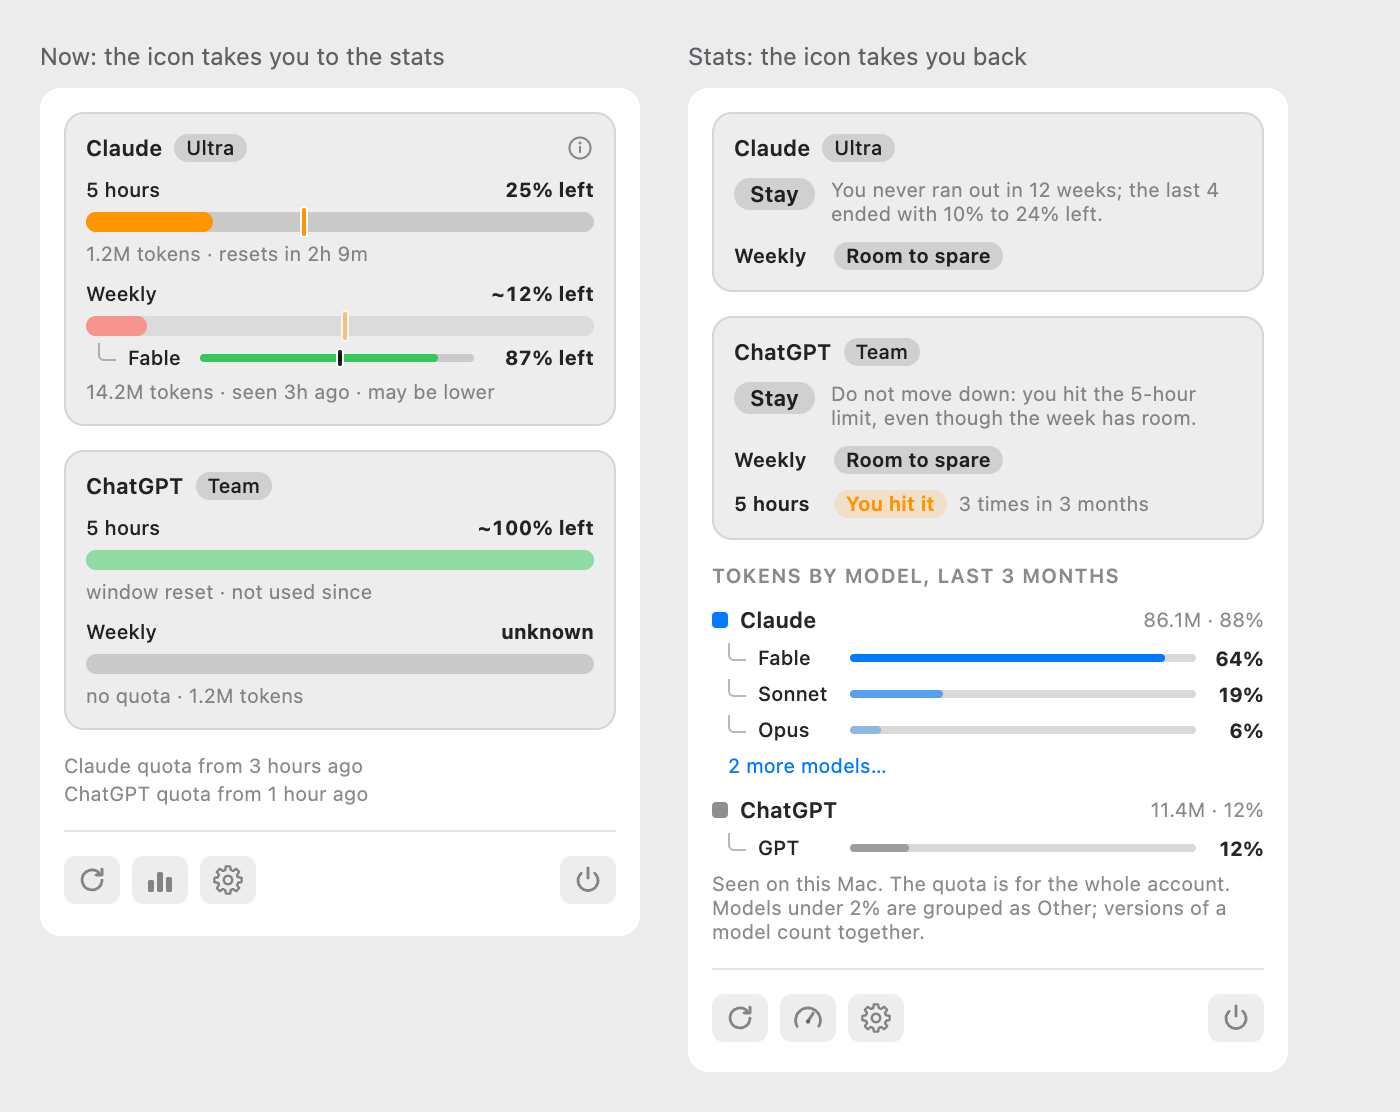
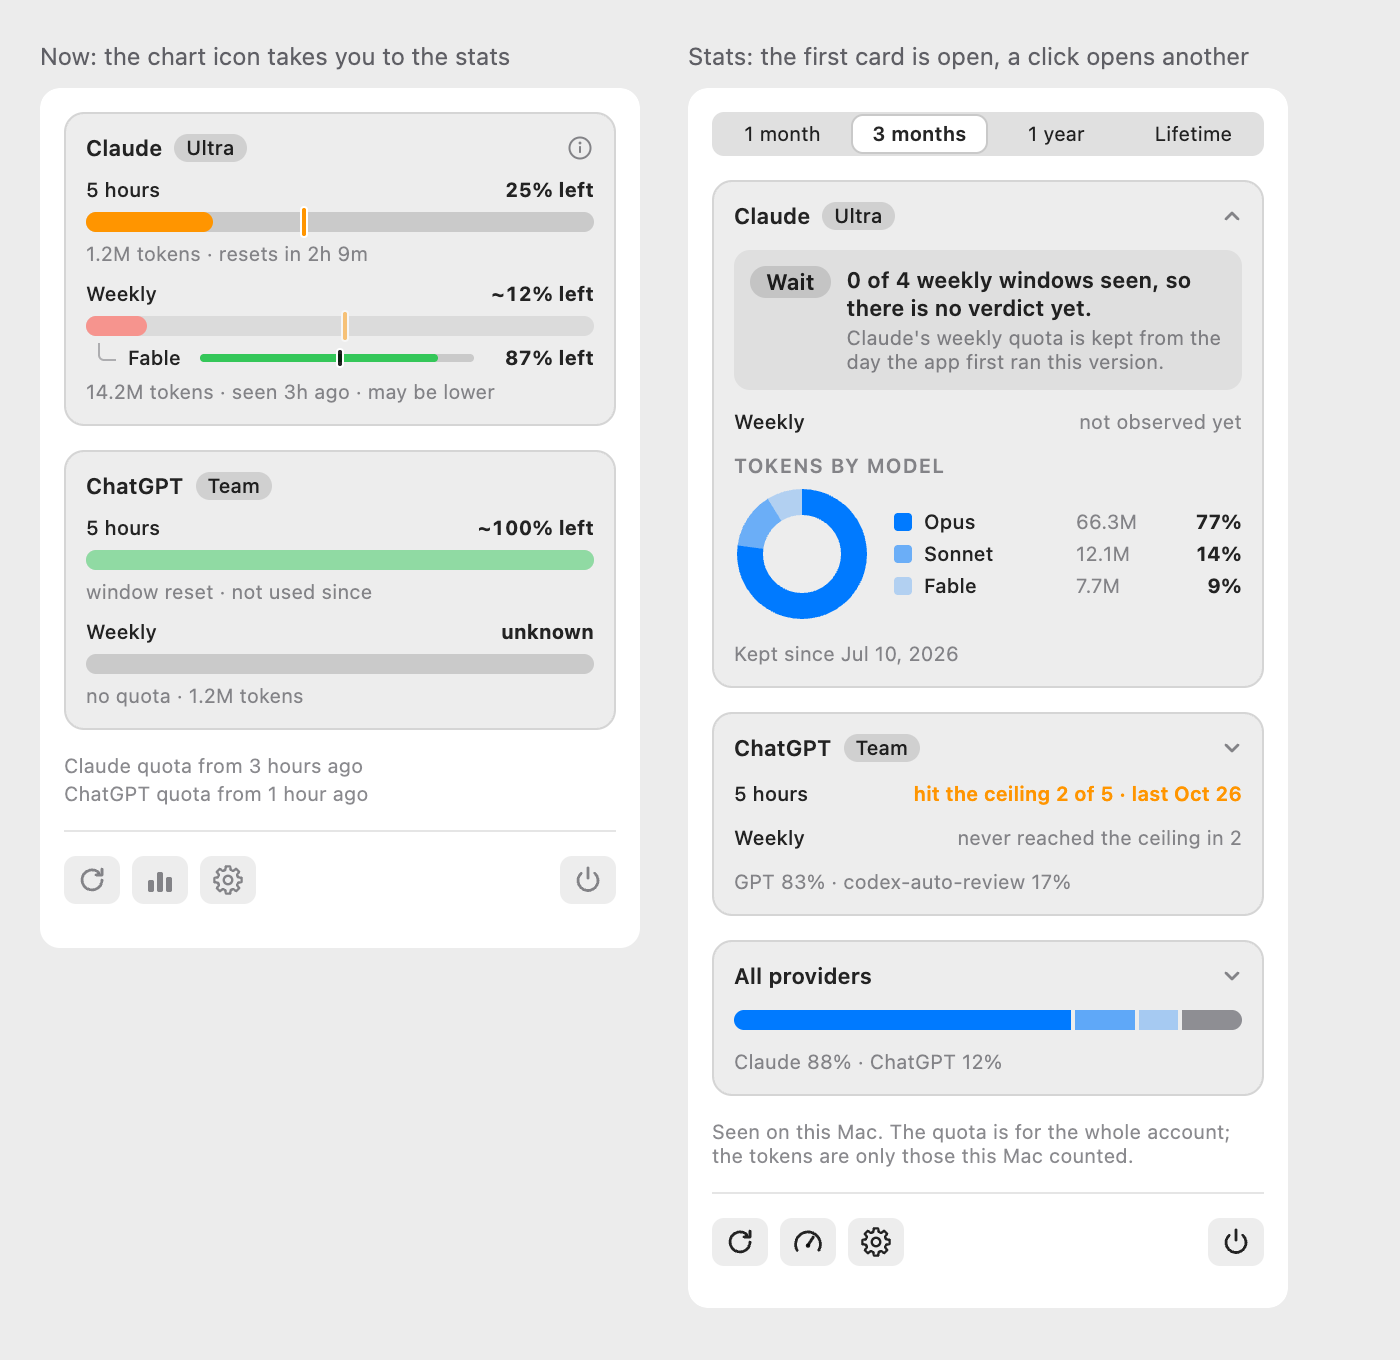
docs(features): the usage stats proposal shows the panel as built

diff --git a/docs/features/2026-11-02-usage-stats/proposal.md b/docs/features/2026-11-02-usage-stats/proposal.md
@@ -9,7 +9,7 @@ sidebar_position: 2
 The design that was chosen. It was drawn as a canvas in Claude, which is deleted once the feature is implemented; this
 page is what stays. **Every number in the images is a sample**, not real use.
 
-![The panel in its two views: on the left the current quota with an icon of bars in the row of buttons; on the right the stats view, with a card for each provider, the first three models of Claude and a gauge icon that takes back to the current quota](./proposal-panel.png)
+![The panel as built, in its two views: on the left the current quota with a chart icon in the row of icons; on the right the stats view, with its first card open to a verdict and a ring of the models, the other cards closed to a line for each window, the card for all providers, and a gauge icon that takes back to the current quota](./proposal-panel.png)
 
 ![The widget as it is today, with a small chip next to the plan capsule that says Stay](./proposal-widget.png)
 

diff --git a/docs/develop/build-and-run.md b/docs/develop/build-and-run.md
@@ -85,7 +85,7 @@ alone and the script says so: see [Enable the Claude Quota](../use/enable-claude
 
 The app **registers itself to start at login the first time it runs**
 ([ADR 0007](../adr/0007-login-item-plan-name-and-settings.md)). You will see it under System Settings, General, Login
-Items. **Settings…** in the panel has a **Launch at login** switch; if you turn it off the app never
+Items. The Settings icon of the panel opens a window with a **Launch at login** switch; if you turn it off the app never
 turns it back on. Run the copy in `/Applications`: the registration belongs to the copy that
 registered it.
 
